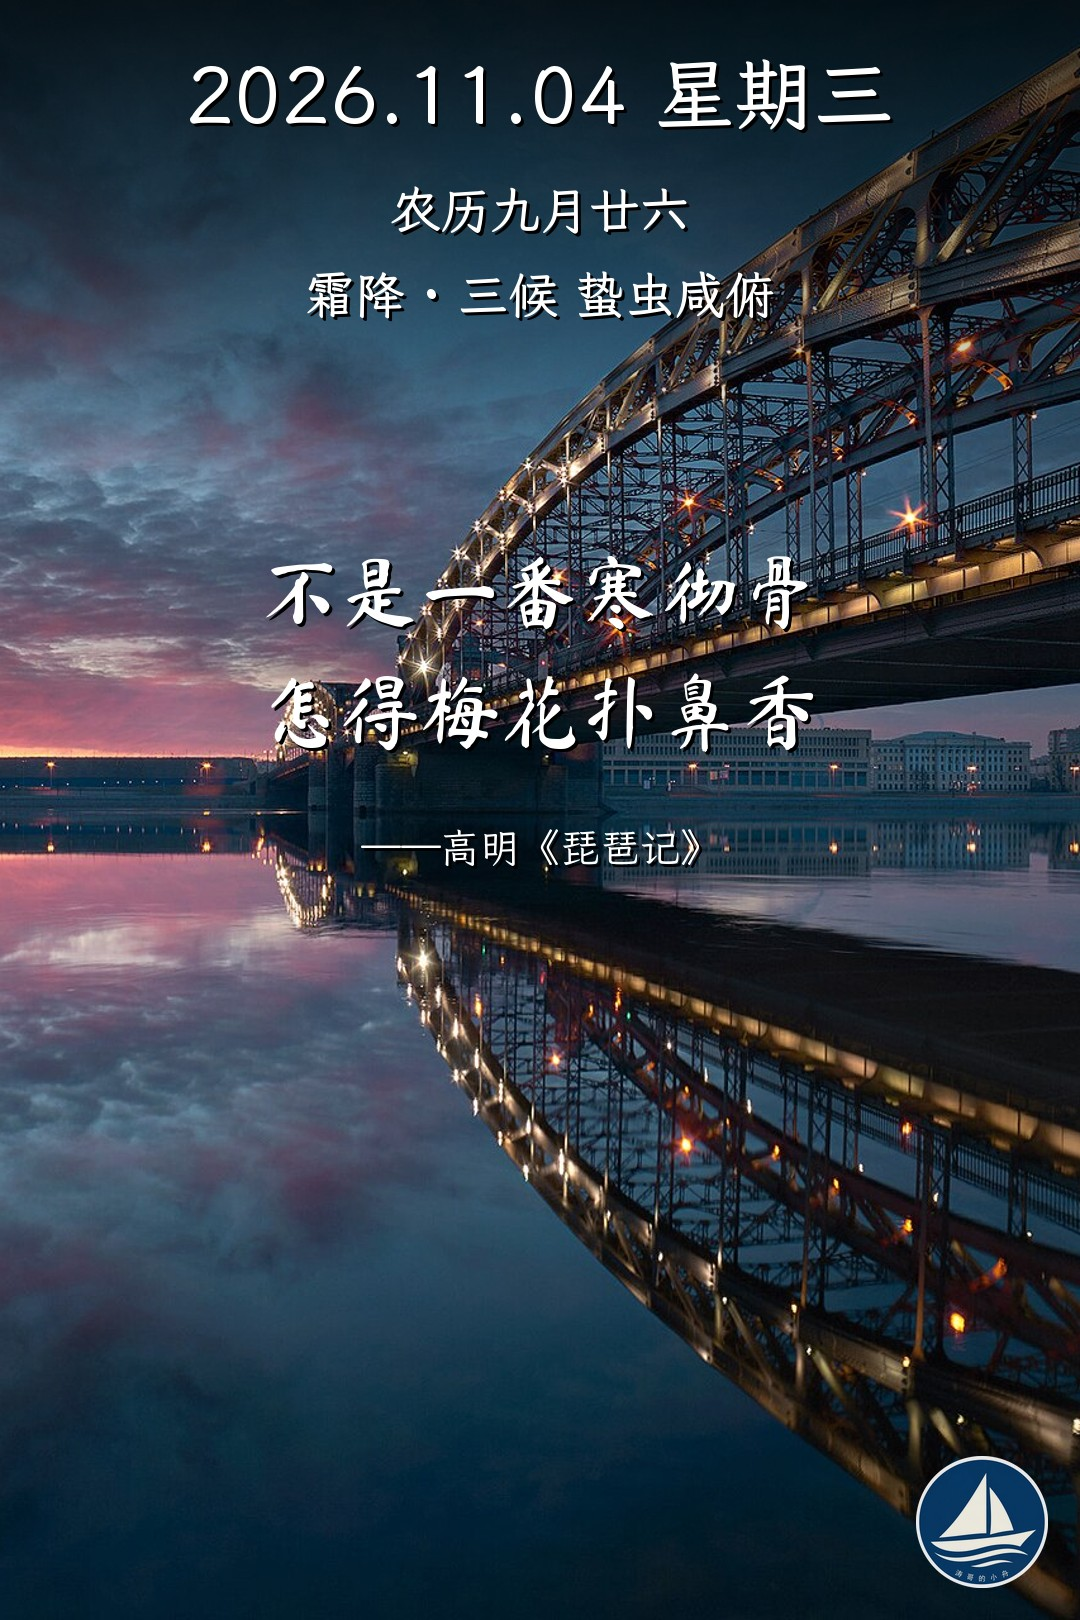
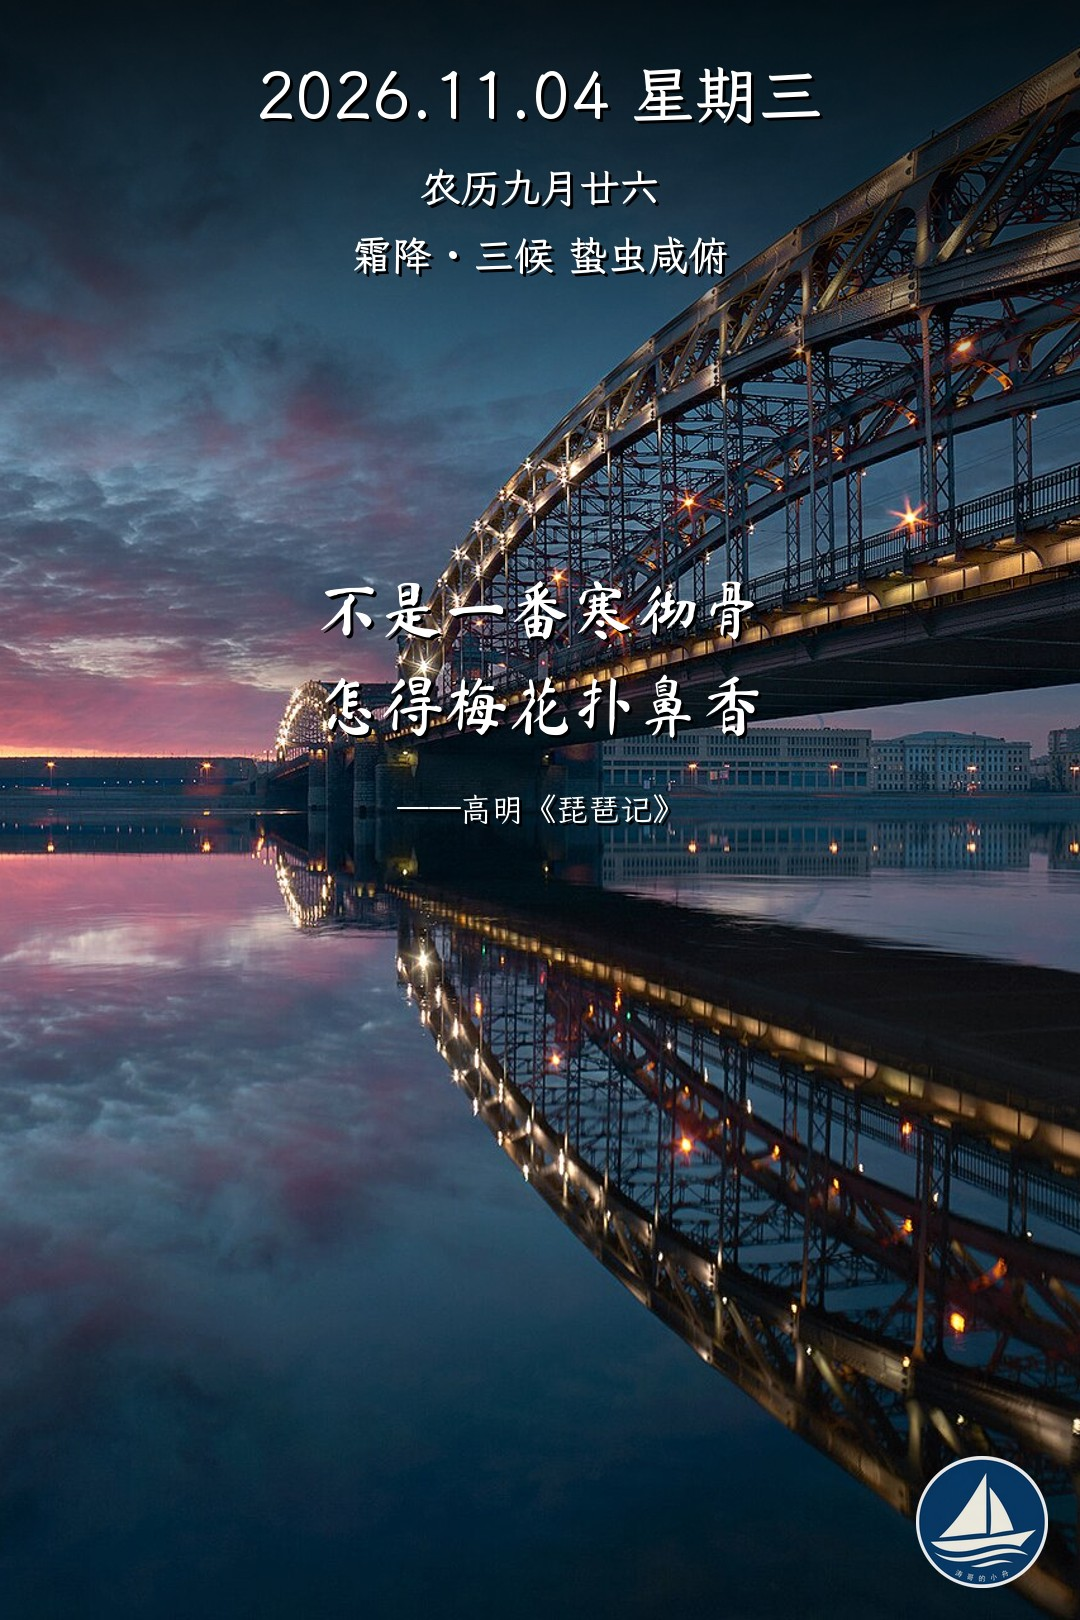
docs: 定稿 v1 版式说明（字号/字体/调度）

Changed region(s): [[0.1833, 0.0309, 0.825, 0.216], [0.2444, 0.3395, 0.7639, 0.463], [0.3667, 0.4938, 0.6417, 0.5556]]

diff --git a/README.md b/README.md
@@ -4,6 +4,16 @@
 日期 / 农历 / 节气七十二候 / 唐诗宋词元曲励志金句 / 「涛哥的小舟」徽标 →
 推送到你微信（Server酱）。全程云端运行，与本地电脑无关。
 
+## 当前版式（2026-11-04 定稿 v1）
+
+- 画布 1080×1620，底部右下角圆形徽标（`assets/badge.png`）
+- 字体：日期/农历/节气/落款用霞鹜文楷；金句用**马善政毛笔楷书**（MaShanZheng，笔画端正有笔锋，不加粗）
+- 字号统一由 `cloud/poster.py` 里的 `TEXT_SCALE = 1.25` 控制，换算后：日期 80 / 农历·节气 50 / 金句 80 / 落款 40；行距同步按系数放大
+- 调度：`0 23 * * *`（北京 7:00）主跑 + `30 23 * * *`（北京 7:30）兜底重试，当天已推过自动跳过，不会重复推送
+- 推送配图链接带 commit 号（`@<sha>`），避免 jsdelivr 缓存住旧图
+
+改版式时只改 `TEXT_SCALE`（整体字号）或对应字体文件，其余布局参数都跟着系数走。
+
 ## 上线步骤
 
 1. GitHub 建一个仓库（如 `morning-poster`），把本目录全部内容推上去
